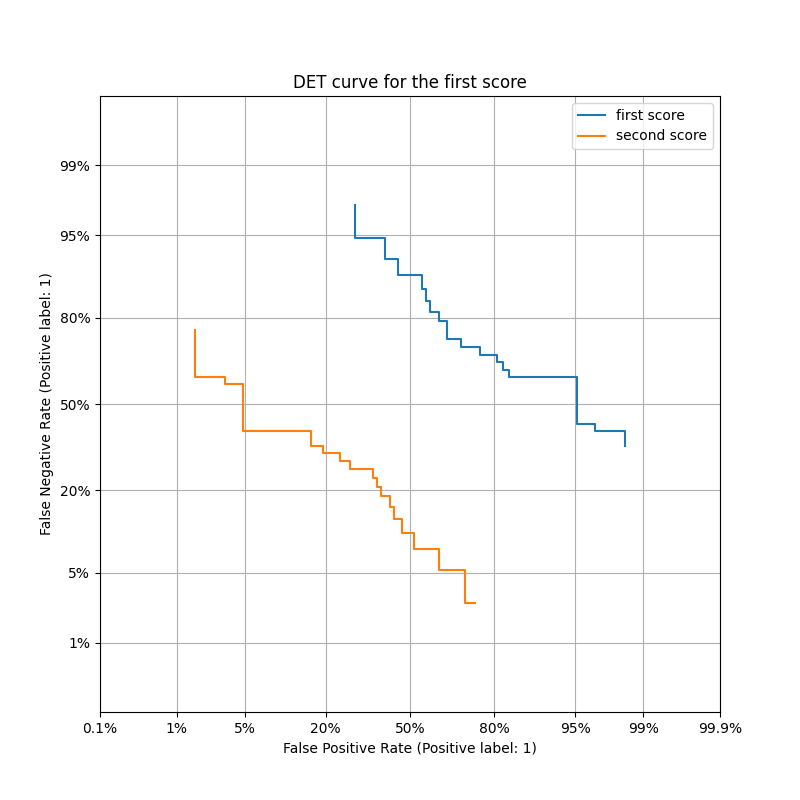
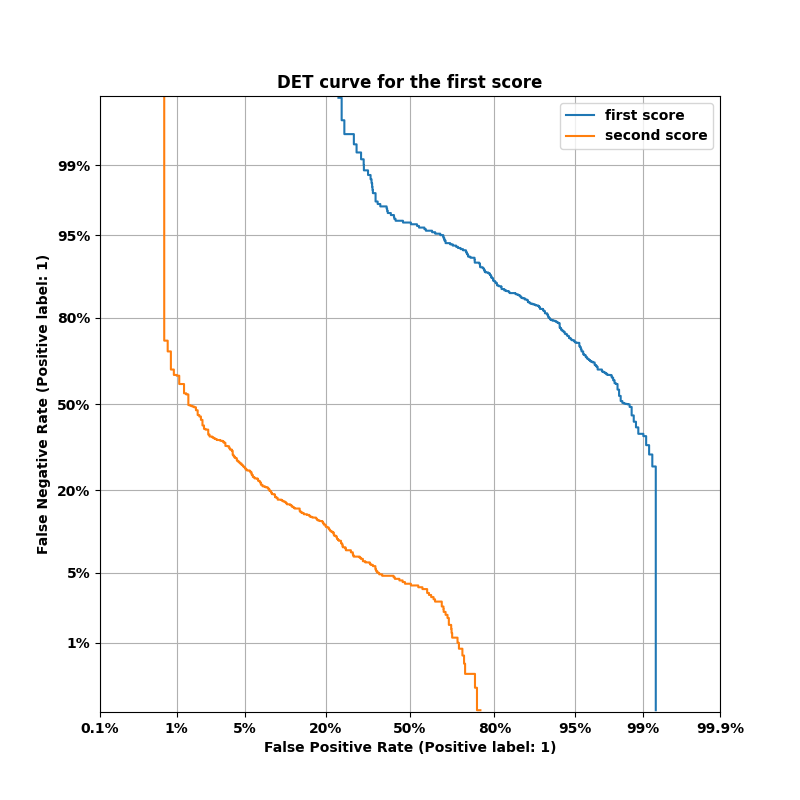
Chapter 3

diff --git a/project/solution/trainer.py b/project/solution/trainer.py
@@ -61,6 +61,21 @@ class Trainer:
 
         for batch_idx, (inputs, targets) in enumerate(train_dataloader):
             """INSERT YOUR CODE HERE."""
+            output = self.model(inputs)
+            loss = self.criterion(output, targets)
+            # backpropagation
+            loss.backward()
+            self.optimizer.step()
+            self.optimizer.zero_grad()
+            # update loss
+            total_loss += loss.item()
+            avg_loss = total_loss / (batch_idx + 1)
+            # update accuracy
+            _, predicted_labels = torch.max(output, 1)
+            correct_labeled_samples += (predicted_labels == targets).sum().item()
+            nof_samples += targets.size(0)
+            accuracy = 100.0 * correct_labeled_samples / nof_samples
+
             if batch_idx % print_every == 0 or \
                     batch_idx == len(train_dataloader) - 1:
                 print(f'Epoch [{self.epoch:03d}] | Loss: {avg_loss:.3f} | '
@@ -93,6 +108,19 @@ class Trainer:
 
         for batch_idx, (inputs, targets) in enumerate(dataloader):
             """INSERT YOUR CODE HERE."""
+            # forward pass
+            with torch.no_grad():
+                output = self.model(inputs)
+            loss = self.criterion(output, targets)
+            # update loss
+            total_loss += loss.item()
+            avg_loss = total_loss / (batch_idx + 1)
+            # update accuracy
+            _, predicted_labels = torch.max(output, 1)
+            correct_labeled_samples += (predicted_labels == targets).sum().item()
+            nof_samples += targets.size(0)
+            accuracy = 100.0 * correct_labeled_samples / nof_samples
+
             if batch_idx % print_every == 0 or batch_idx == len(dataloader) - 1:
                 print(f'Epoch [{self.epoch:03d}] | Loss: {avg_loss:.3f} | '
                       f'Acc: {accuracy:.2f}[%] '

diff --git a/project/solution/numerical_analysis.py b/project/solution/numerical_analysis.py
@@ -58,7 +58,23 @@ def get_soft_scores_and_true_labels(dataset, model):
         gt_labels: an iterable holding the samples' ground truth labels.
     """
     """INSERT YOUR CODE HERE, overrun return."""
-    return torch.rand(100, ), torch.rand(100, ), torch.randint(0, 2, (100, ))
+
+    all_first_soft_scores = []
+    all_second_soft_scores = []
+    gt_labels = []
+
+    dataloader = DataLoader(dataset,
+                            batch_size=32,
+                            shuffle=False)
+    for batch_idx, (inputs, targets) in enumerate(dataloader):
+        """INSERT YOUR CODE HERE."""
+        with torch.no_grad():
+            output = model(inputs.to(device))
+        all_first_soft_scores.extend(output[:, 0].cpu().numpy())
+        all_second_soft_scores.extend(output[:, 1].cpu().numpy())
+        gt_labels.extend(targets.cpu().numpy())
+
+    return all_first_soft_scores, all_second_soft_scores, gt_labels
 
 
 def plot_roc_curve(roc_curve_figure,
